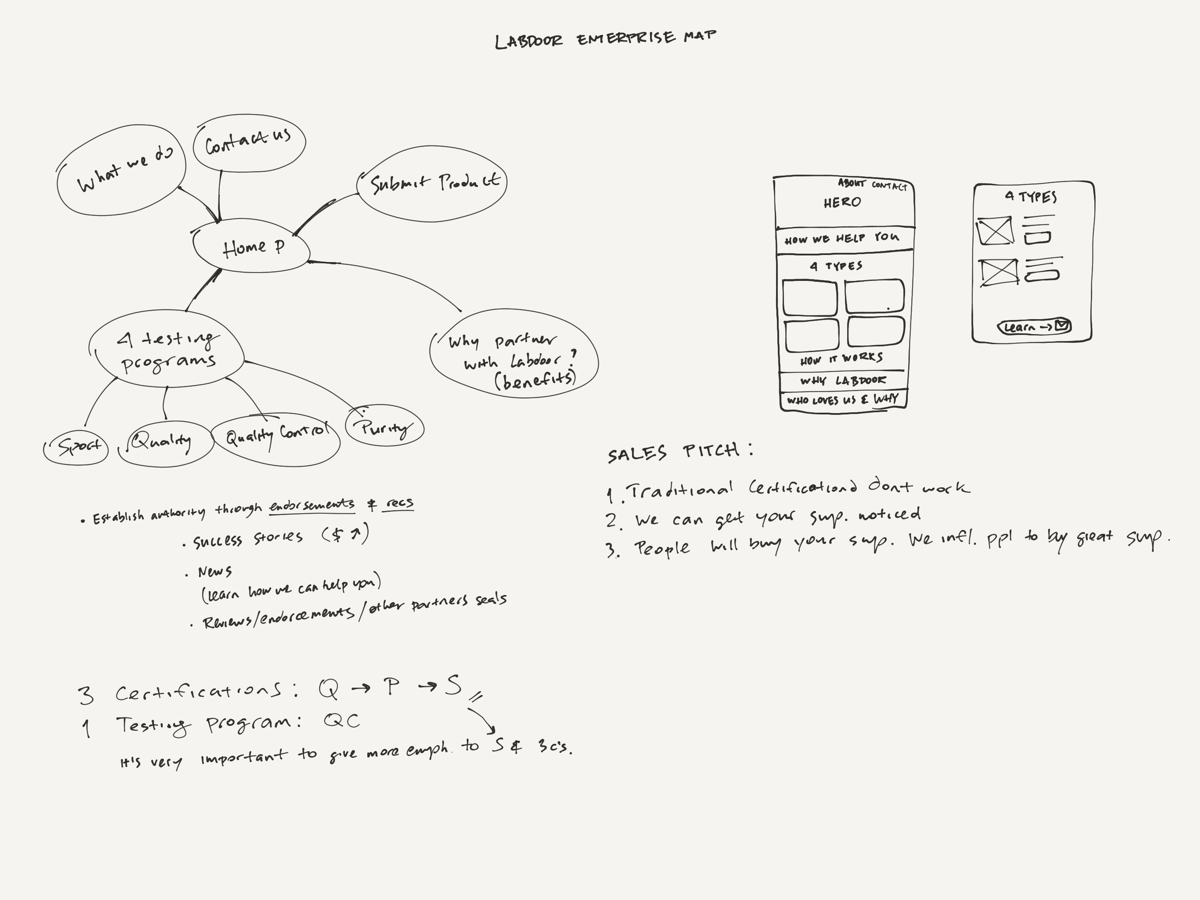
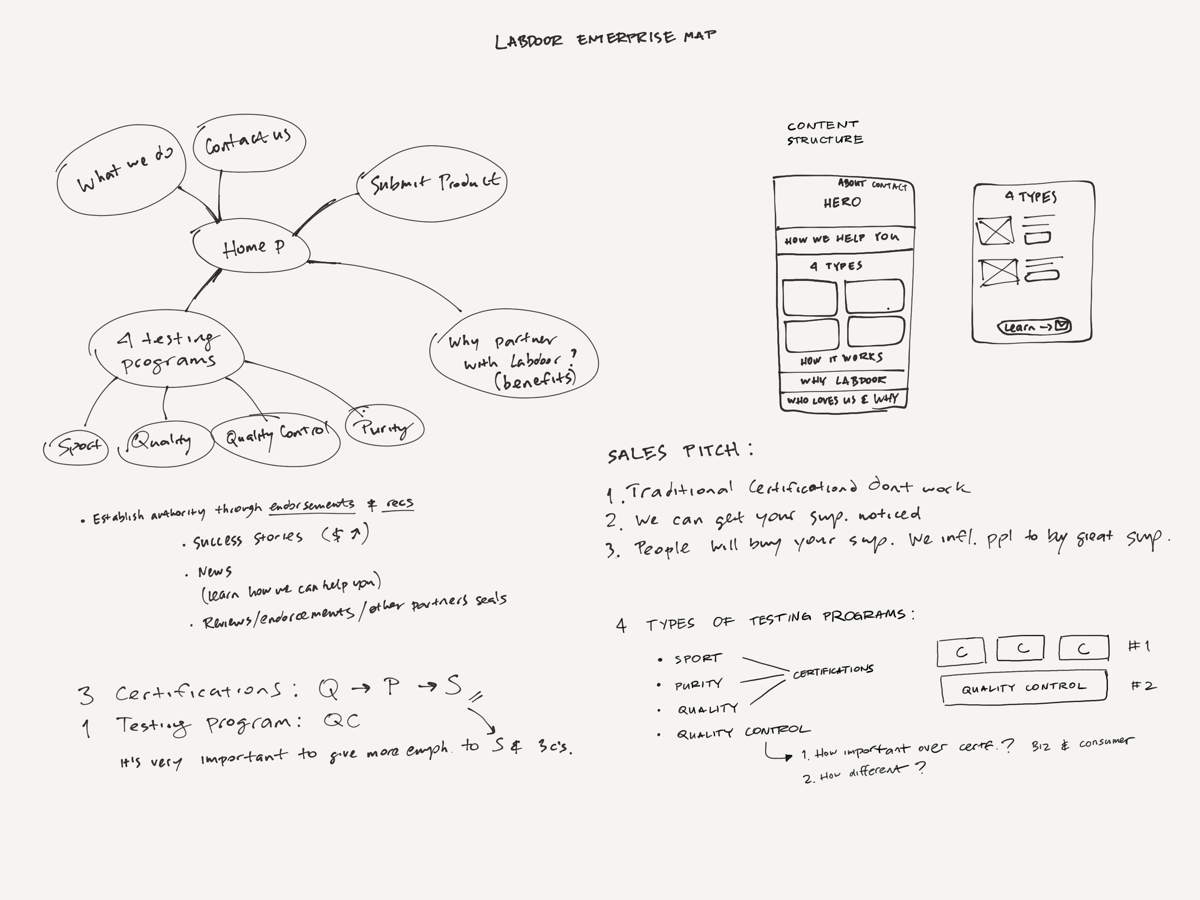
Adding the second half of Labdoor's case study content

diff --git a/labdoor.html b/labdoor.html
@@ -73,18 +73,14 @@ $(document).ready(function() {
   <center><h5 class="title" style="padding-bottom:4%;">LABDOOR</h5></center>
     
   <div class="eighworktext" style="">
-    <!-- <div class="row">
-      <img class="seven columns" src="images/labdoor.jpg" alt="3dbin"/>
-
-    </div> -->
 
     <div class="row" style="margin-bottom: -2%;">
       <p class="four columns" style="text-align:left; margin-right:8%;"> 
-        <b class="t">ROLE:</b>
+        <b class="t">ROLE</b>
         <br>Product Designer
       </p>
       <p class="three columns" style="text-align:left; ">
-        <b class="t">DATES:</b> 
+        <b class="t">DATES</b> 
         <br>
         2015-2016
       </p>
@@ -237,7 +233,7 @@ $(document).ready(function() {
           <br> 
           <li> Substantial neglect for visual design and overall consistency.
           <br> 
-          <li> The content as well as value proposition is lengthy and obscure. (Maybe so much redundant text helps them establish trust? Our research showed the opposite.)
+          <li> The content as well as value proposition is lengthy and obscure. (Maybe so much redundant text helps them establish trust? Our research showed the opposite. 🤔)
           <br>
           <li> As for customer acquisition strategy it appears that the few of them that exist get clients through an established network from the past.
         </ul>
@@ -247,16 +243,39 @@ $(document).ready(function() {
       After understanding the requirements and setting priorities it's a good time to start brainstorming and developing possible solutions.
       </p>
       <p>
-        We questioned every detail of the current Labdoor Enterprise. Even its name. We've ~concluded~ that "Labdoor Enterprise" sounded a little corporate and that's not the association we want to send to our audience. We've renamed the site to "Labdoor for Brands" so it speaks better to our audience and sends the proper message.
+        At this point, I usually sketch a map of the site to understand general flow, content structure and see if there is anything we’re missing. It’s a good time to get feedback from the team if there is any questions about product requirements or content.
       </p>
       <img class="" src="images/labdoor-map.png"></img>
       <h5 class="captionbottom"><center>Rough map of the website</center></h5>
+      <p>
+        We've found out that in most cases someone who lands on the Labdoor for Brands already intends to submit their product to test. We just have to describe our benefits and encourage the intended.
+      </p>
+      <p>
+        We questioned every detail of the current Labdoor Enterprise. Even its name. We've ~concluded~ that "Labdoor Enterprise" sounded a little corporate and that's not the association we want to send to our audience. We've renamed the site to "Labdoor for Brands" so it speaks better to our audience and sends the proper message.
+      </p>
+      <h5 class="h5">Challenges</h5>
+      <p>
+        One of the challenges was presenting Labdoor’s Testing and Certification methods in a short, but clear/unambiguous/comprehensible/ way. Not all testing programs are certifications. We wanted make a clear distinction between three certifications and one internal testing program, despite that both of them fall into testing program category. In collaboration with my business development colleague I was exploring different layouts, as well as experimenting with the copy.
+      </p>
+      <img class="" style="/*max-width:130%!important;*/" src="images/labdoor-w-testingIterations.png"></img>
+      <h5 class="captionbottom">Testing Programs layout iterations</h5>
+      <p>
+        As we were iterating, we’ve decided to prioritize certifications over internal testing based on earlier client feedback. (It suited the business better too.)
+      </p>
+      <img class="" style="/*max-width:130%!important;*/" src="images/labdoor-w-enterpriseIterations.png"></img>
+      <h5 class="captionbottom">Current iteration</h5>
+      <p>
+        Looking back at my market research, I decided that success stories is something our brand can include on the landing page to demonstrate social proof. Since the company received a lot of positive feedback from the current enterprise clients and a short testimonial would go hand in hand with success stories.
+      </p>
+      <p>
+        While diving into visual details I kept in mind the overall look and feel we want to portray as a brand: clean, modern and trustworthy. Therefore I tried to stick with simple theme, familiar navigation followed by distinct elements and concise copy. After all, its meant to be read by the audience of 30-40 year olds working in the pharma industry.
+      </p>
+      <img class="" style="/*max-width:130%!important;*/" src="images/labdoor-w-enterprise.png"></img>
+      <h5 class="captionbottom">Current iteration</h5>  
+      <p>
+        Labdoor for Brands is still in its process of coming together and hasn’t launched yet. But I can’t wait to see it’s new redesign and the benefits it will bring to supplement manufacturers.
+      </p>
     </div>
-
-
-
-
-    <br>
     <br>
     <br>
     <div class="nine columns">
@@ -271,16 +290,17 @@ $(document).ready(function() {
         While we’ve drastically improved overall growth, currently, one of the Labdoor’s biggest challenges is user retention. However, it has to do with the nature of the product. People often don’t go back to buy supplements at the same place they bought them before. If you’re at CVS shopping for office supplies, you might as well just get your supplements too. 
       </p>
       <p>
-        You may ask why did I work on infographics, magazine or print? Was it important for the product? Yes, and that’s another thing I’ve learned. <b>All these small things add up and have a direct/big impact on growth of the product. </b> Which is the primary goal and the main metric of our success. Sometimes, these things are not very obvious, but...(it's important to not underestimate them but instead ask "How they contribute to our goal?")
+        You may ask why did I work on infographics, magazine or print? Was it important for the product? Yes, and that’s another thing I’ve learned. <b>All these small things add up and have a direct/big impact on growth of the product. </b> Which is the primary goal and the main metric of our success. Sometimes, these things are not very obvious, but ... (it's important to not underestimate them but instead ask "How they contribute to our goal?")
       </p>
       <hr>
       <p style="padding-top:3%;" >
-        I’m excited about the work I’ve done for Labdoor, and all the things I’ve learned while I was there. I’ve contributed to its growth and made the product easier to use. It was an honor to work with such talented and passionate team, on a meaningful product that helps people stay healthy.
+        I’m excited about the work I’ve done for Labdoor, and all the things I’ve learned while I was there. I’m thankful I was able to contribute to its growth and make the product easier to use. It was an honor to work with such talented and passionate team, on a meaningful product that helps people stay healthy.
       </p>
       <p>
-        “Stay tuned” and you will see how Labdoor expands to testing cosmetics, and evolves into a much more refined but  ... product.
+        “Stay tuned” and you will see how Labdoor expands to testing cosmetics, and evolves into a much more but sophisticated but unified product. 
       </p>
     </div>
+
 
 
 
@@ -288,6 +308,7 @@ $(document).ready(function() {
 
 
 
+<div class="row"></div>
 
 
 <!----------------------- W O R K ---------------------->

diff --git a/unravel.html b/unravel.html
@@ -86,18 +86,18 @@ $(document).ready(function() {
       <p class="eight columns" style="margin-right: 8%;"> I have a passion for building social networking apps. I’ve always been interested in psychology and what drives human behavior. Today, people use their devices very often and I think it's great if they can meet new people through their devices. I see a big room for imporvement in social networking space - which was one the major motivations to join Unravel. 
       <br>I came on board at a very early stage, to build the app basically from the ground up. The team had just come up with a few sketches and rough prototypes.</p>
       <p class="three columns" style="font-size:;"> 
-      <b class="t">ROLE:</b>
+      <b class="t">ROLE</b>
       <br> Mobile Design, Branding
       <br> <br>
-      <b class="t">DATES:</b> 
+      <b class="t">DATES</b> 
       <br>Sept 2014-April 2015
       </div>
     
     <div class="row">
-      <p class="six columns"style="padding-right: 2.4%"> <b> DESIGN GOALS SUMMARY:</b>
+      <p class="six columns"style="padding-right: 2.4%"> <b> DESIGN GOALS SUMMARY</b>
       <br>Design dating iOS app, with modern aesthetic, where the main feature is to unlock someone’s photos by guessing their personality. When two people have unlocked each others' photos - they can chat. 
       </p> 
-      <p class="six columns" > <b> DESIGN METHODS:</b>
+      <p class="six columns" > <b> DESIGN METHODS</b>
       <br>Sketching and storyboarding, wireframing, creating user flows, designing low to high fidelity mocks, conducting user interviews, A/B tests, focus groups, surveys, user behavior data metrics, usability testing.</p>
     </div>
     <div class="row">

diff --git a/gnana.html b/gnana.html
@@ -76,7 +76,7 @@ $(document).ready(function() {
 
   
 <!----------------------- G N A N A ---------------------->
-  <center><h5 class="section" style="padding-bottom:4%;">GNANA</h5></center>
+  <center><h5 class="title" style="padding-bottom:4%;">GNANA</h5></center>
     
   <div class="eighworktext" style="">
     <div class="row" style="font-size:1.8rem;">
@@ -85,10 +85,10 @@ $(document).ready(function() {
     </div>
     <div class="row" style="font-size:1.8rem;">
       <p class="four columns" style="text-align:left; padding-right:5%;"> 
-      <b class="t">ROLE:</b>
+      <b class="t">ROLE</b>
       <br> Web App UI/UX Design, Branding </p>
       <p class="three columns">
-      <b class="t">DATES:</b> 
+      <b class="t">DATES</b> 
       <br>2013-2014</p>
     </div>
    <br>

diff --git a/scroll.html b/scroll.html
@@ -77,7 +77,7 @@ $(document).ready(function() {
 
   
 <!----------------------- S C R O L L ---------------------->
-  <center><h5 class="section" style="padding-bottom:4%;">SCROLL</h5></center>
+  <center><h5 class="title" style="padding-bottom:4%;">SCROLL</h5></center>
     
   <div class="eighworktext" style="">
     <div class="row">
@@ -87,10 +87,10 @@ $(document).ready(function() {
     </div>
     <div class="row">
       <p class="four columns" style="text-align:left;"> 
-      <b class="t">ROLE:</b>
+      <b class="t">ROLE</b>
       <br> Mobile Product Design</p>
       <p class="four columns" style="text-align:left; margin-left: 4%;">
-      <b class="t">DATES:</b> 
+      <b class="t">DATES</b> 
       <br>April 2014 - October 2014</p>
     </div>
 

diff --git a/css/style.css b/css/style.css
@@ -61,7 +61,7 @@ body { -webkit-font-smoothing: subpixel-antialiased; } /*This is to fix the post
 #sher{ 	
         float:left;
 		margin-top:20px;
-		font-family: "proxima-nova", sans-serif;
+		font-family: "Proxima-nova", sans-serif;
 		font-weight: 600;
 		font-size:24px;
 		letter-spacing:.2px;
@@ -167,6 +167,7 @@ p {
 	font-family: "Montserrat", sans-serif;
 	font-weight: 600;
 	color: #979799;
+	letter-spacing:.02rem;
 	margin-top: 12%;
 	margin-bottom: 50px;
 
@@ -178,10 +179,11 @@ p {
 }
 
 .title {
-	font-size: 1.6em; /*used to be 26px*/
+	font-size: 1.8em; /*used to be 26px*/
 	font-family: "Montserrat", sans-serif;
 	font-weight: 600;
 	color: #979799;
+	letter-spacing:.08rem;
 	margin-top: 12%;
 	margin-bottom: 50px;
 

diff --git a/3dbin.html b/3dbin.html
@@ -88,10 +88,10 @@ $(document).ready(function() {
 
       <br>
       <p class="four columns" style="text-align:left; padding-left:; font-size:2rem;"> 
-      <b class="t">ROLE:</b>
+      <b class="t">ROLE</b>
       <br> Mobile App UI/UX Design, Branding </p>
       <p class="three columns" style="text-align:left; padding-left:2%;font-size:2rem;">
-      <b class="t">DATES:</b> 
+      <b class="t">DATES</b> 
       <br>2013-2014</p>
     </div>
 
